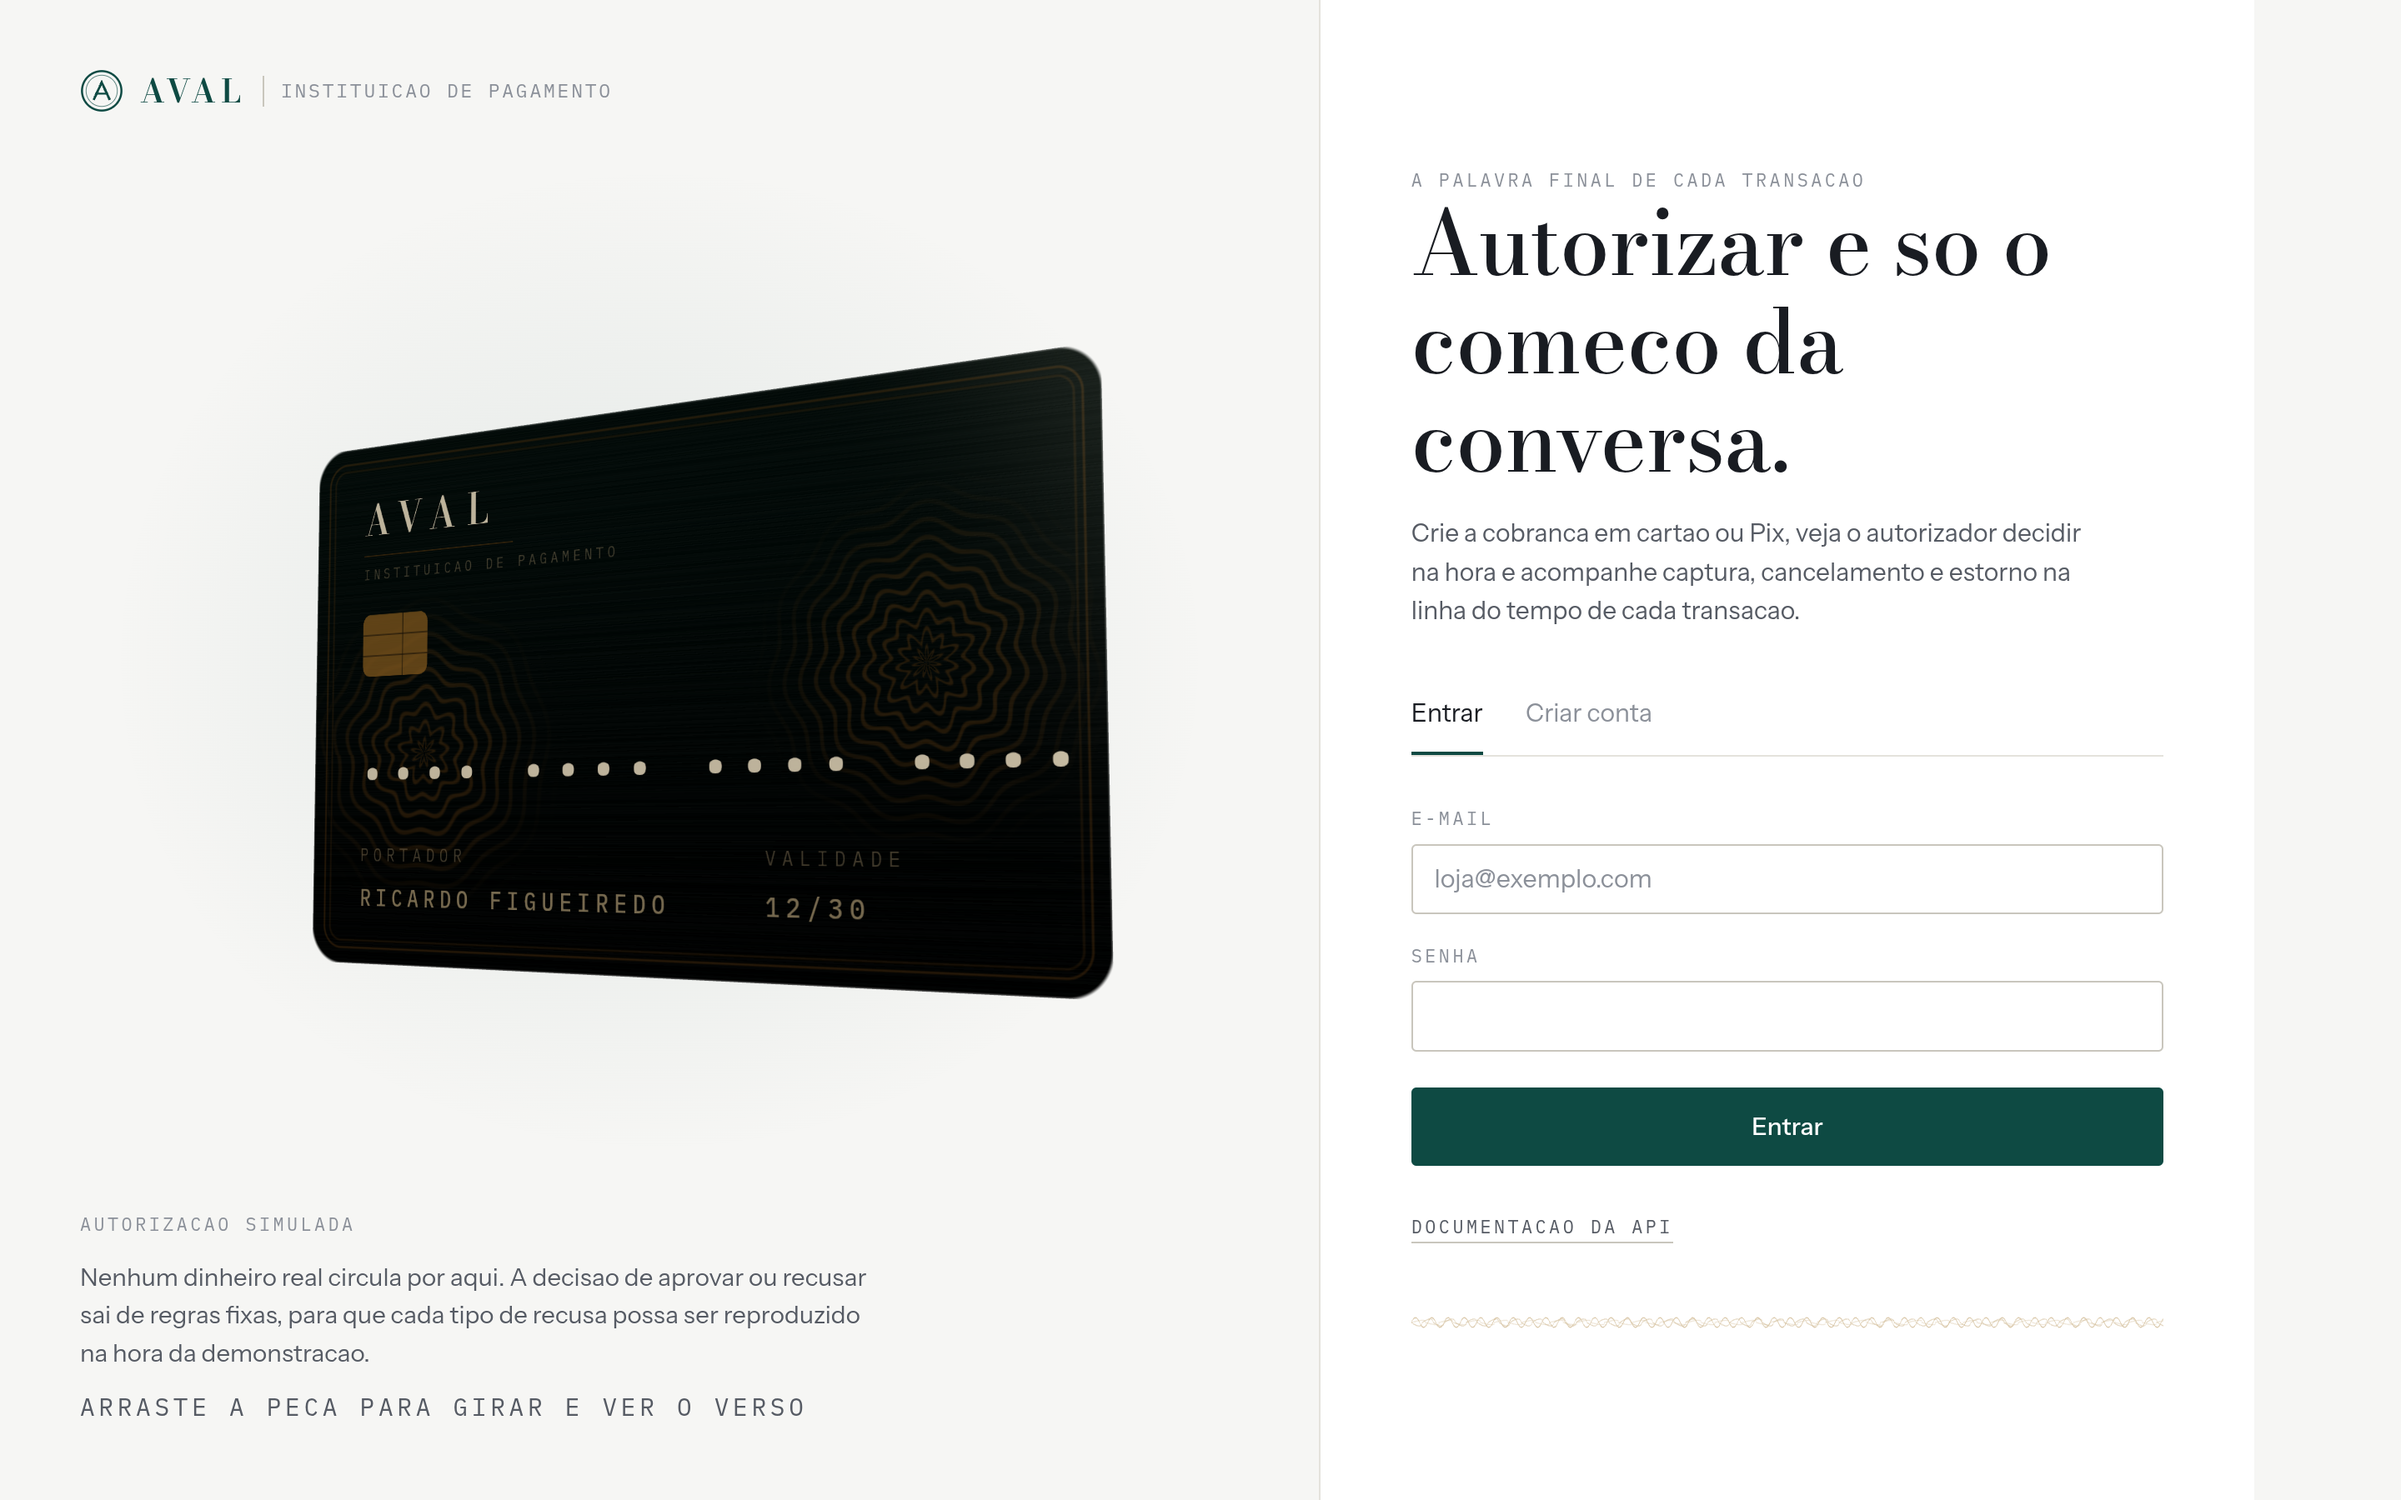
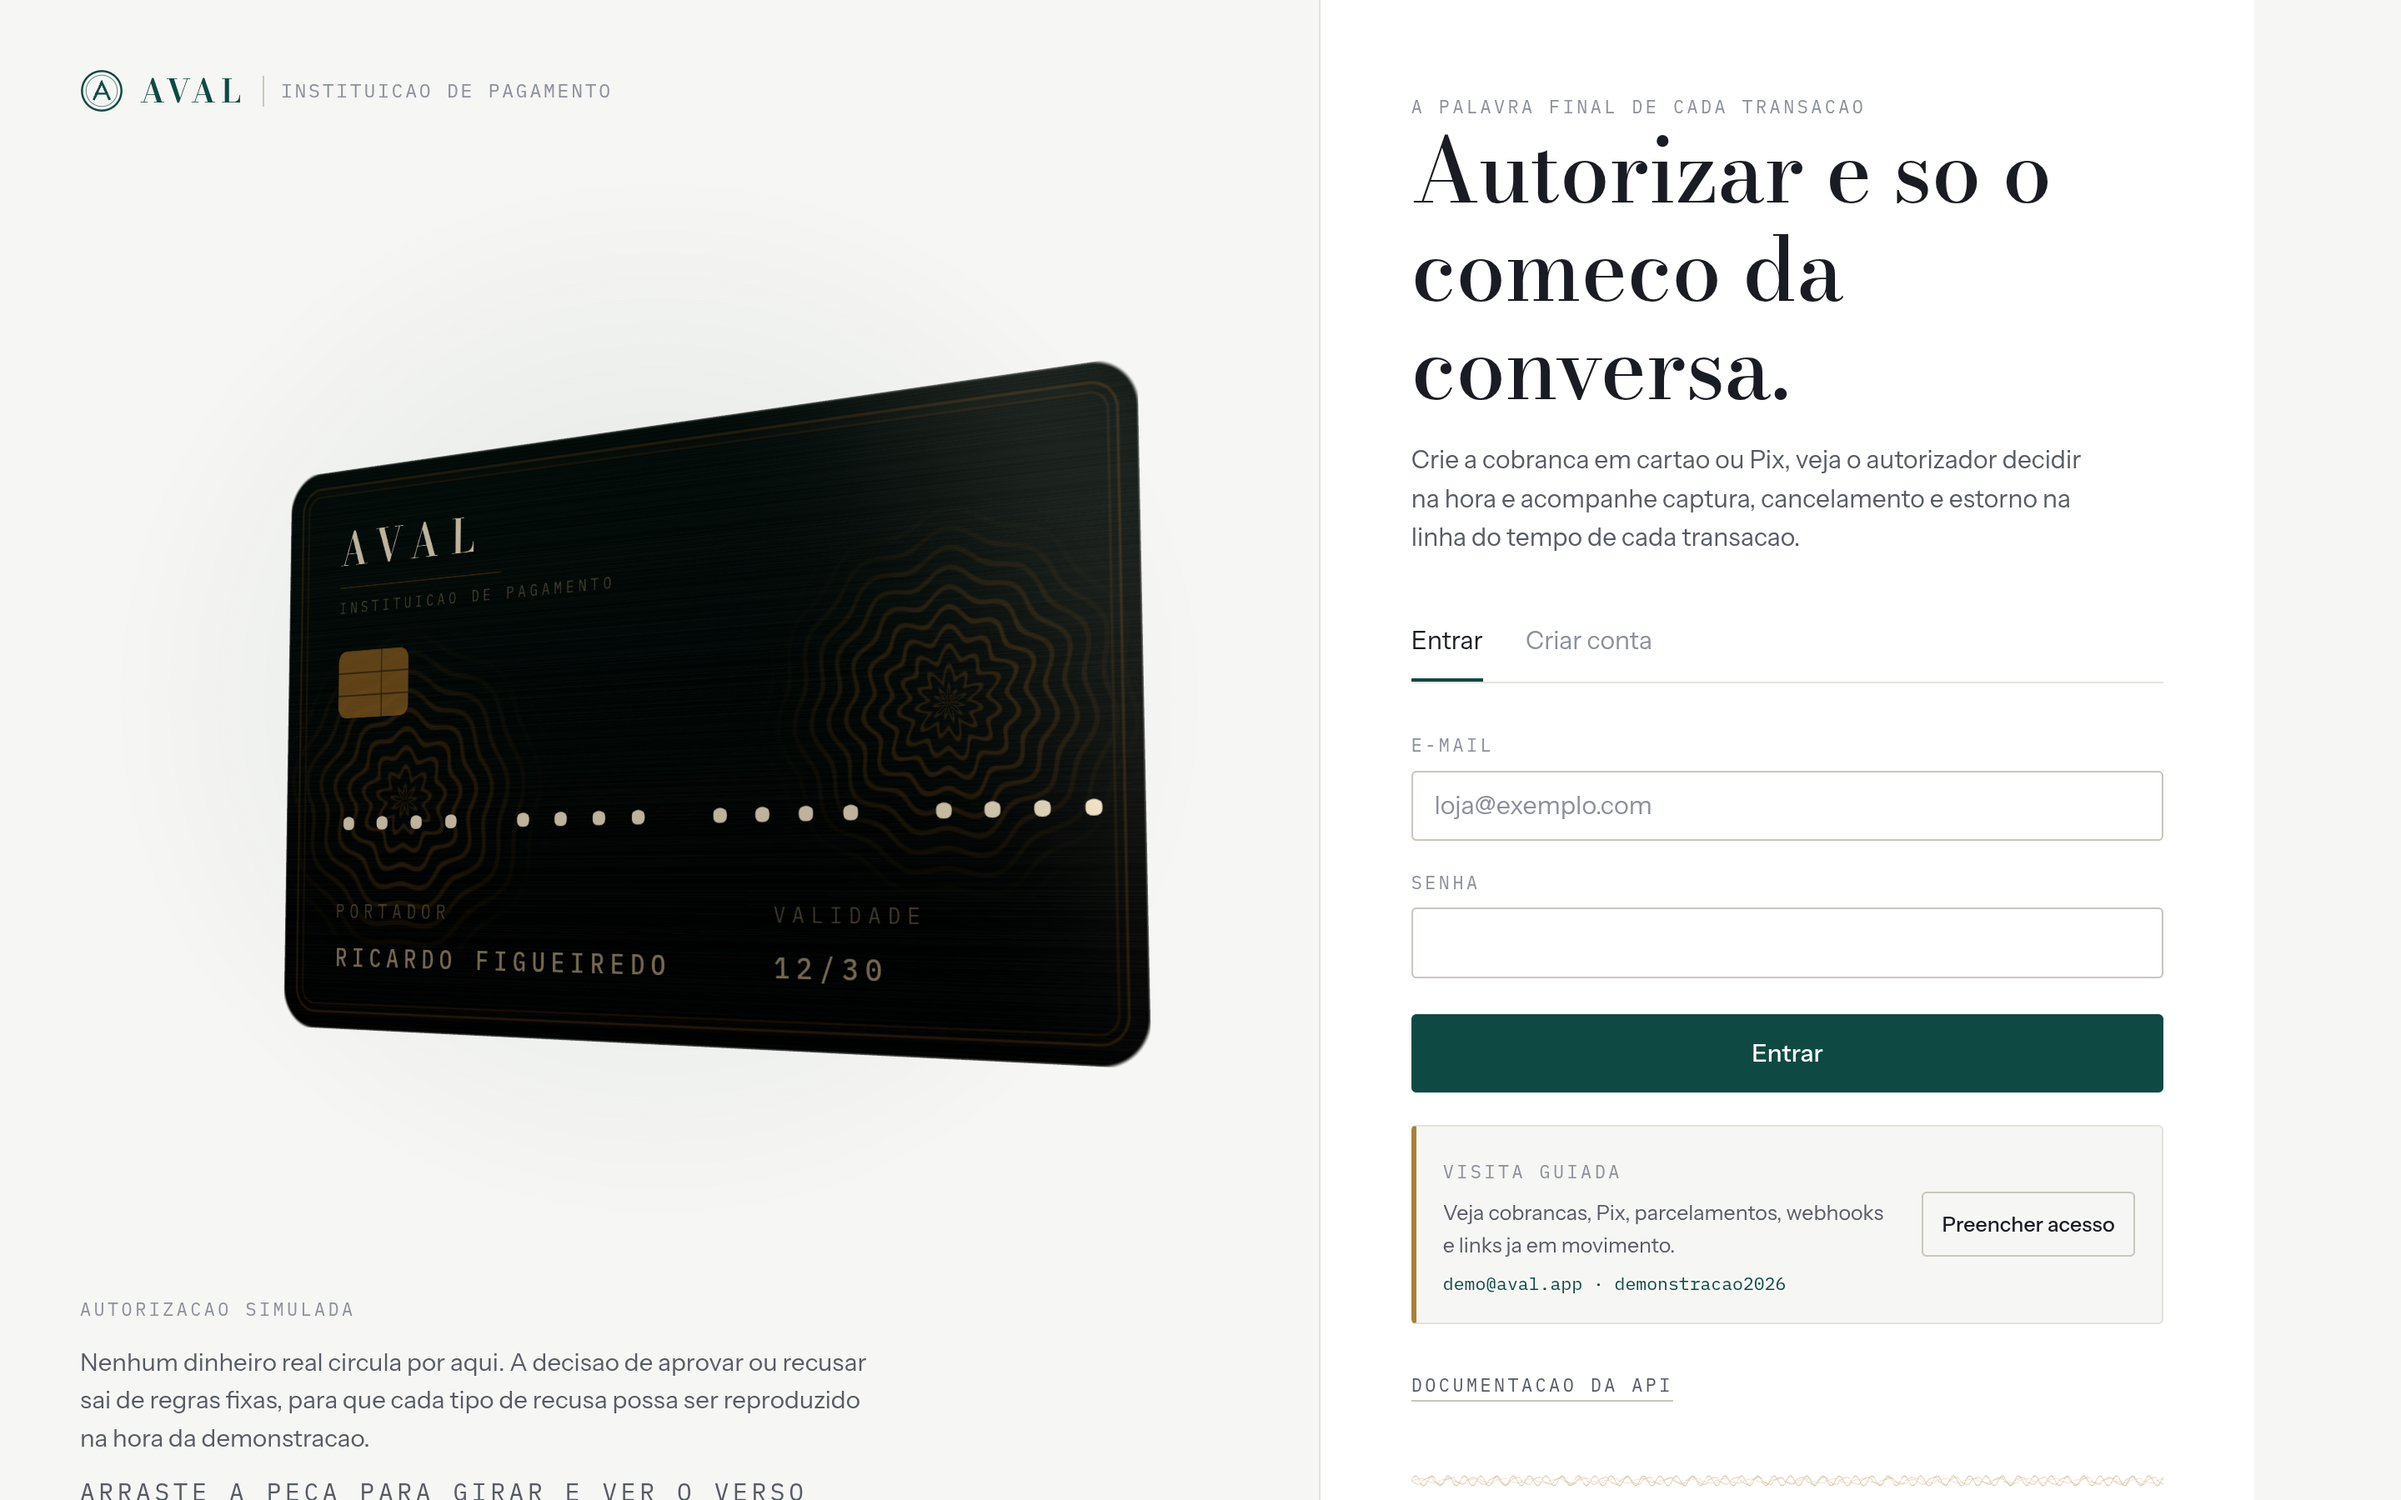
Atualiza vitrine visual da demonstracao

diff --git a/README.md b/README.md
@@ -66,6 +66,8 @@ Telas em `web/prints/`.
 
 ![Links de pagamento](web/prints/16-links-de-pagamento.png)
 
+![Checkout público](web/prints/17-checkout-publico.png)
+
 ## Stack
 
 - Java 21
